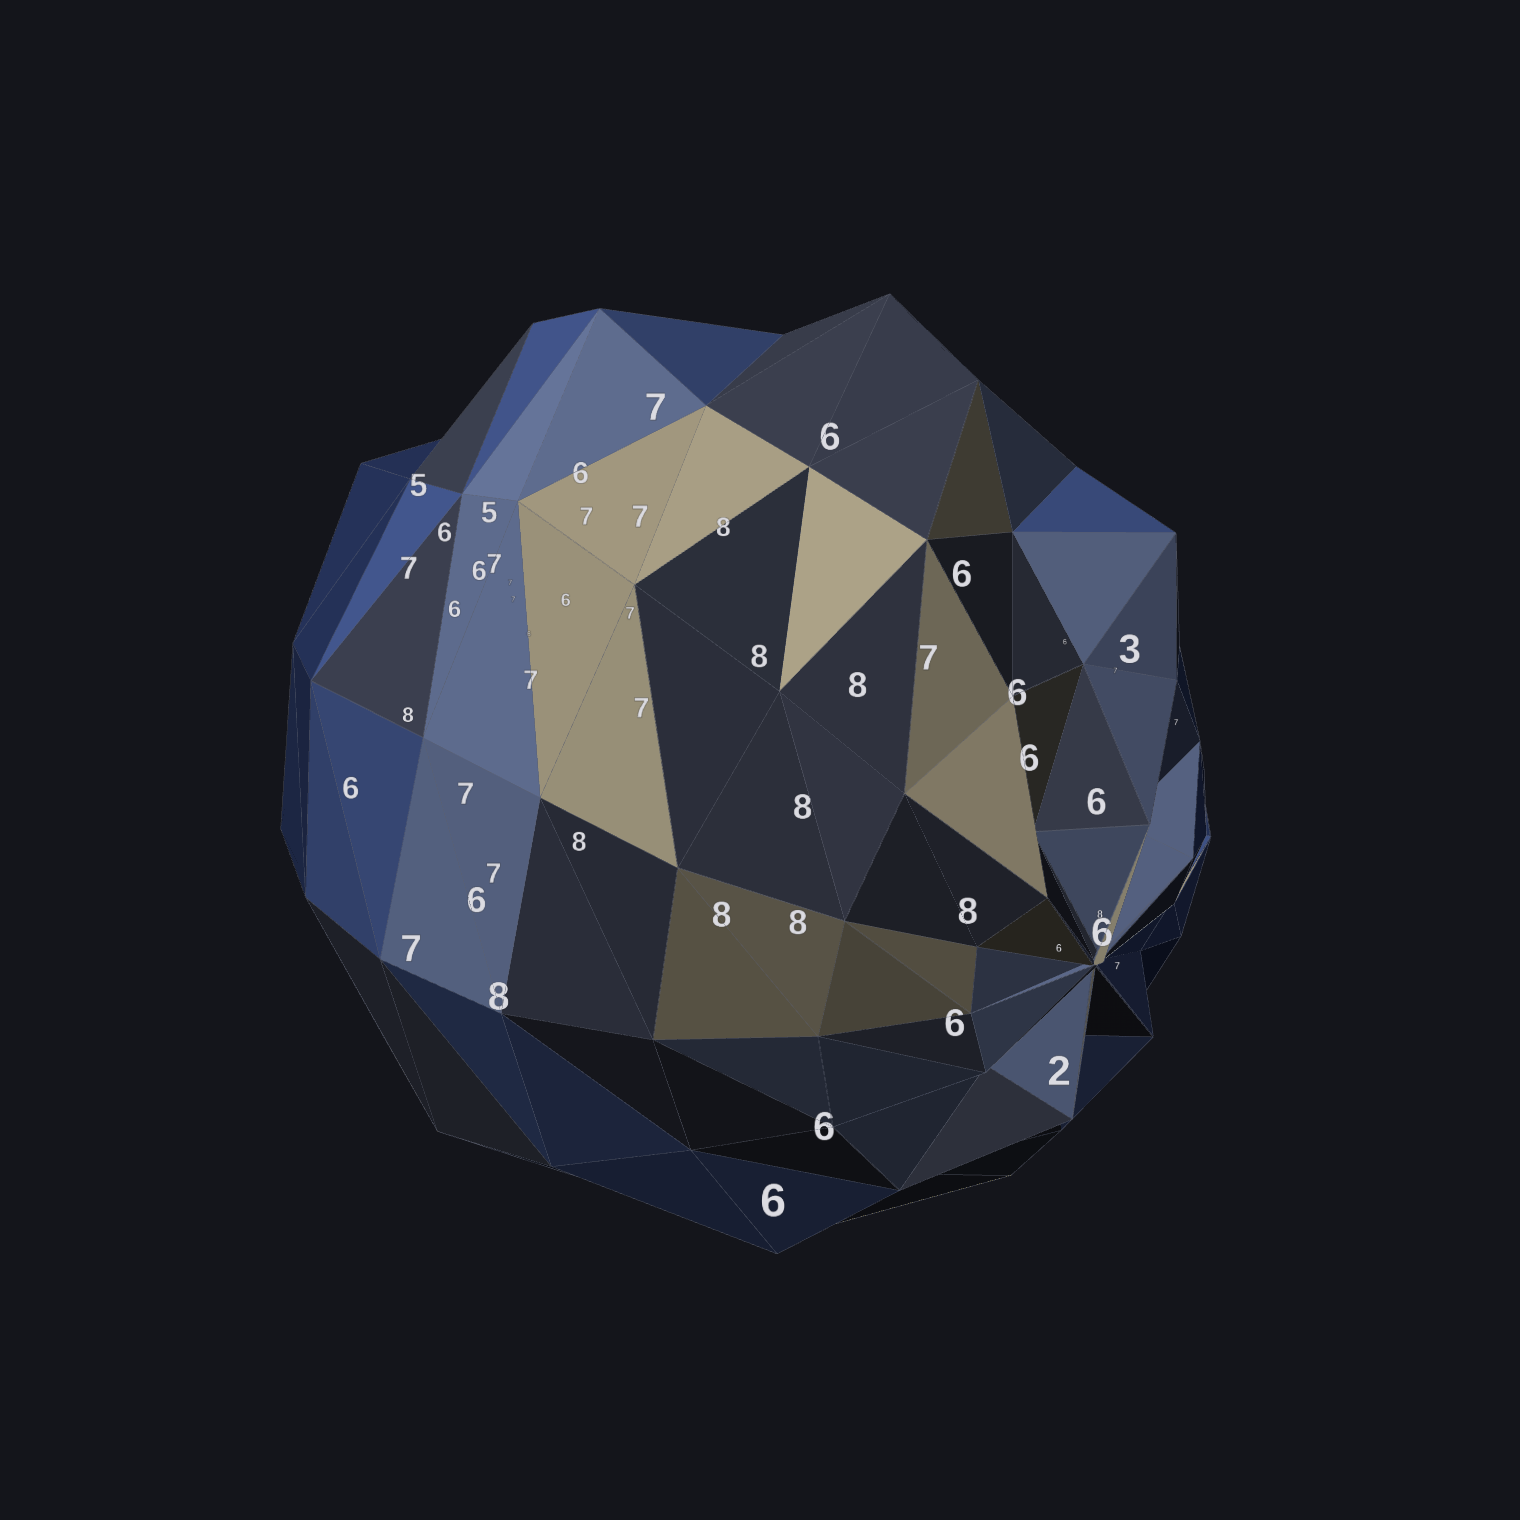
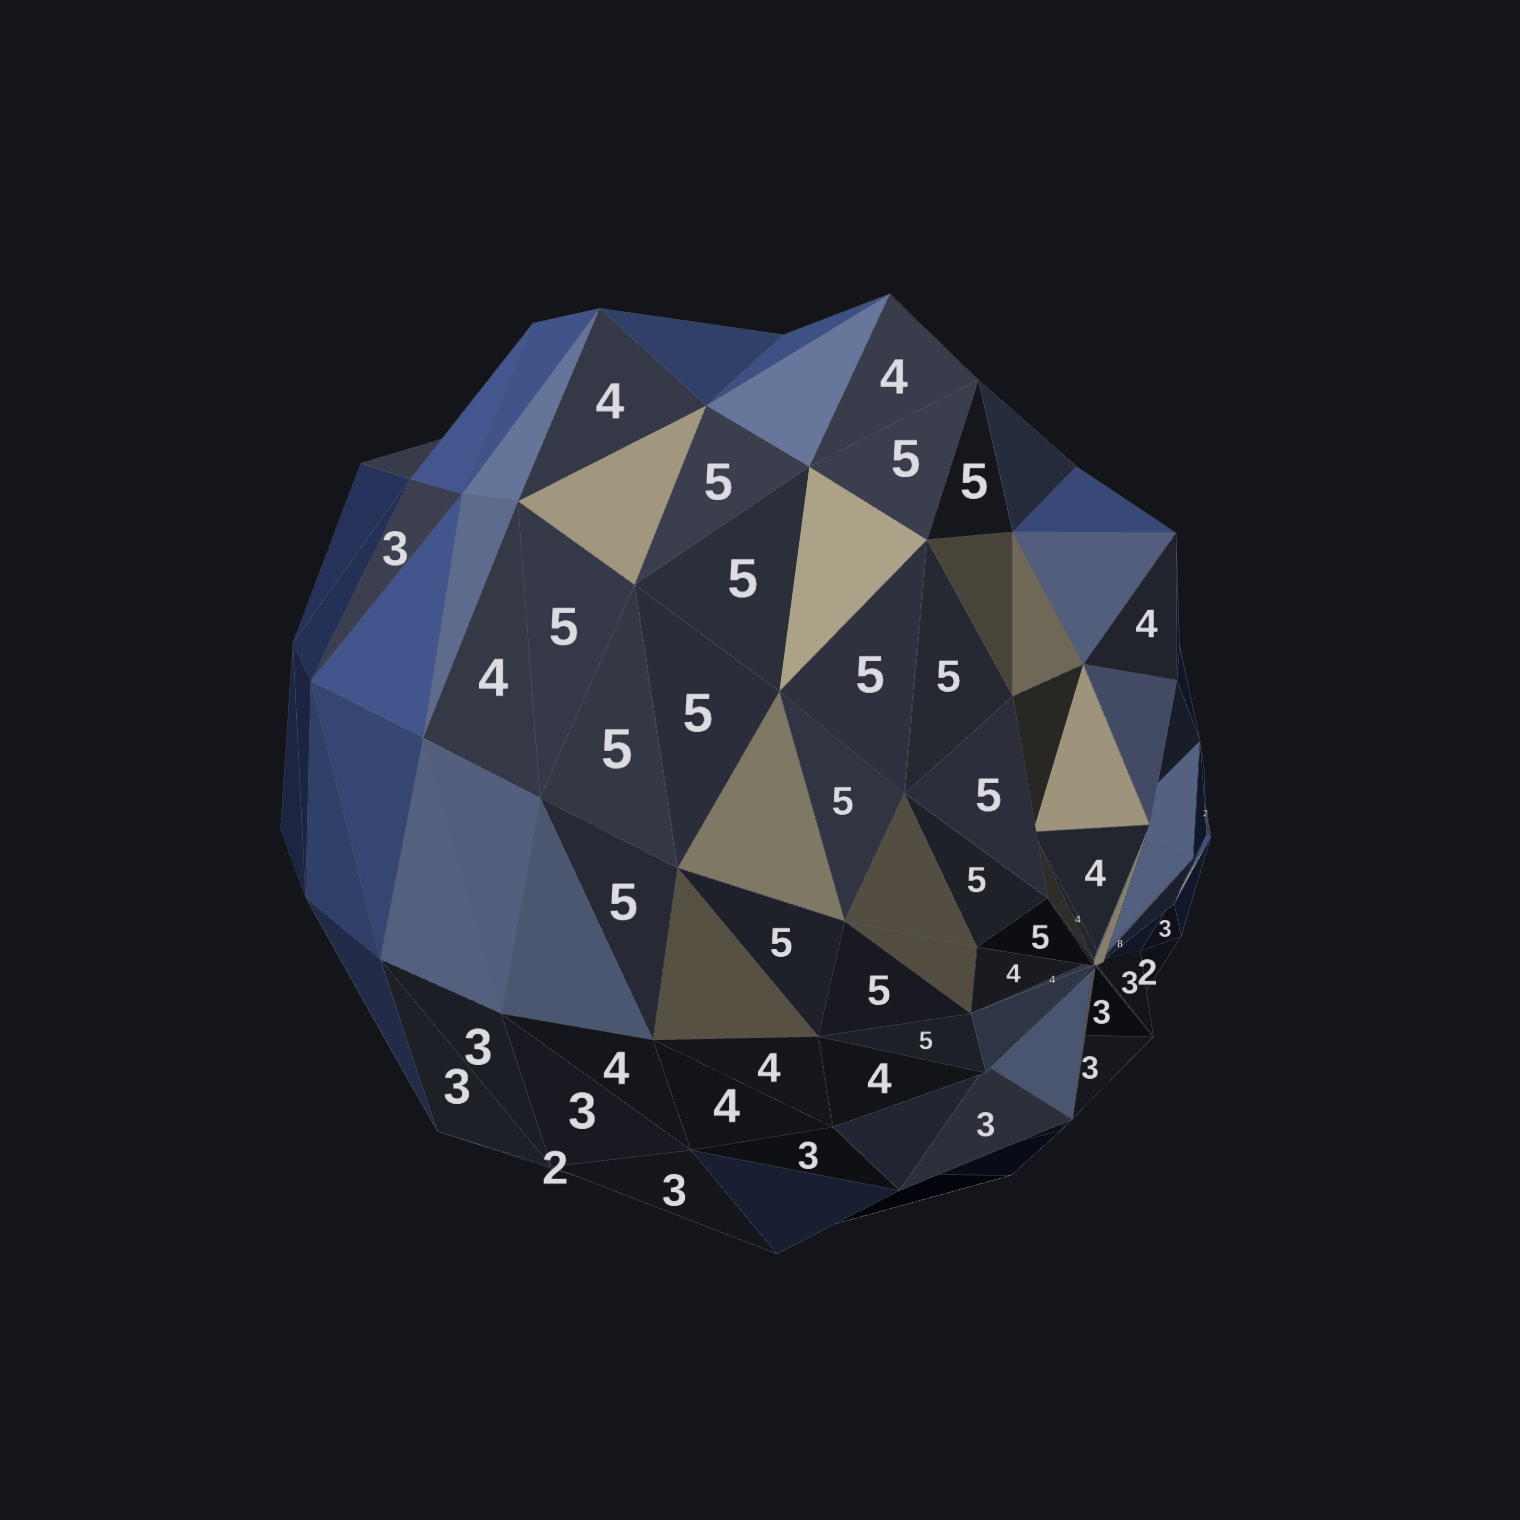
3D CBN: show numbers only on truly-visible faces (raycast occlusion)
Disabling the GPU depth test (previous commit) fixed the gem's missing
numbers but let numbers from far-side faces bleed through the front when
rotating. The GPU depth test itself proved unreliable for these sprites on
the tested GL stack (front-facing numbers vanished regardless of offset or
camera-ward bias), so relying on it is not portable.

Replace it with CPU-side visibility: for each uncolored face, cast a ray
from the camera to the face centroid and hide its number if the mesh blocks
the line of sight (a nearer face is in front). This exactly matches "only
show numbers on visible faces" and behaves identically on every device.

- Sprites keep depthTest:false and per-face sizing; positioned at the face
  centroid (no normal offset, which was unreliable where winding flipped).
- recomputeVis() runs only when the view changes (rotate/zoom) or a face is
  painted, throttled to ~16 Hz, so it's cheap.
- Verified on the gem (two angles), torus (through-hole faces show, far rim
  hidden), geodesic and the Platonic solids; painting a face hides its
  number; no console errors.

Rebuilt app, re-captured thumbnails, regenerated ZIP/PDF/previews.

Claude-Session: https://claude.ai/code/session_01BoUmYt3wo9kd8sjZ3aRKaR

Changed region(s): [[0.1855, 0.1855, 0.773, 0.8039], [0.6803, 0.6803, 0.7112, 0.7112], [0.4947, 0.773, 0.5257, 0.8039]]

diff --git a/ipad_3d_cbn/MathRelaxing_3D_CBN.html b/ipad_3d_cbn/MathRelaxing_3D_CBN.html
@@ -51,7 +51,7 @@ function numTexture(n){const s=128,cv=document.createElement('canvas');cv.width=
   x.fillText(n,s/2,s/2+4);const t=new THREE.CanvasTexture(cv);t.anisotropy=4;return t;}
 const numTex=[];for(let i=0;i<NS;i++)numTex.push(numTexture(i+1));
 
-let group,mesh,geo,col,sprites,normVecs,colored,history,cur=-1,selected=null;
+let group,mesh,geo,col,sprites,centV,colored,history,cur=-1,selected=null,visDirty=true;
 
 function loadFigure(idx){
   if(group){scene.remove(group);geo.dispose();
@@ -70,19 +70,20 @@ function loadFigure(idx){
   // WIREFRAME (every triangle edge) so all colour-by-number regions are outlined
   group.add(new THREE.LineSegments(new THREE.WireframeGeometry(geo),
      new THREE.LineBasicMaterial({color:0x5a5e6c,transparent:true,opacity:0.55})));
-  sprites=[];normVecs=[];
+  sprites=[];centV=[];
   for(let f=0;f<nF;f++){
-    // depthTest:false — a bumpy/non-convex figure (the gem) otherwise occludes
-    // its own numbers; back-face culling (wn.z>0.15 in animate) already hides
-    // numbers on faces pointing away, so only front numbers ever draw.
+    // depthTest:false — the GPU depth test is unreliable for these sprites on
+    // some mobile GL stacks (numbers vanish or bleed through), so we decide
+    // visibility ourselves by raycasting camera->face each view change (recomputeVis).
     const sp=new THREE.Sprite(new THREE.SpriteMaterial({map:numTex[M.faceColor[f]],depthTest:false,transparent:true}));
-    const c=M.centroids[f],n=M.normals[f];
+    const c=M.centroids[f];
     // size each number to its own face (inscribed-circle radius) so numbers on
     // small faces stay inside their cell instead of overlapping neighbours.
     const sc=Math.max(0.03,Math.min(0.14,M.faceSize[f]*1.5));
-    sp.position.set(c[0]+n[0]*0.02,c[1]+n[1]*0.02,c[2]+n[2]*0.02);sp.scale.setScalar(sc);
-    group.add(sp);sprites.push(sp);normVecs.push(new THREE.Vector3(n[0],n[1],n[2]));
+    sp.position.set(c[0],c[1],c[2]);sp.scale.setScalar(sc);
+    group.add(sp);sprites.push(sp);centV.push(new THREE.Vector3(c[0],c[1],c[2]));
   }
+  visDirty=true;
   scene.add(group);
   colored=new Array(nF).fill(-1);history=[];
   try{const s=JSON.parse(localStorage.getItem(key())||'[]');s.forEach((ci,f)=>{if(ci>=0)paint(f,ci);});}catch(e){}
@@ -91,9 +92,9 @@ function loadFigure(idx){
 function key(){return 'cbn3d_'+MESHES[cur].name;}
 function paint(f,ci){const c=new THREE.Color(PAL[ci]);
   for(let k=0;k<3;k++){col[f*9+k*3]=c.r;col[f*9+k*3+1]=c.g;col[f*9+k*3+2]=c.b;}
-  geo.attributes.color.needsUpdate=true;colored[f]=ci;}
+  geo.attributes.color.needsUpdate=true;colored[f]=ci;visDirty=true;}
 function unpaint(f){for(let k=0;k<3;k++){col[f*9+k*3]=UNCOLORED.r;col[f*9+k*3+1]=UNCOLORED.g;col[f*9+k*3+2]=UNCOLORED.b;}
-  geo.attributes.color.needsUpdate=true;colored[f]=-1;}
+  geo.attributes.color.needsUpdate=true;colored[f]=-1;visDirty=true;}
 function save(){try{localStorage.setItem(key(),JSON.stringify(colored));}catch(e){}}
 function updateProg(){const n=colored.filter(x=>x>=0).length;
   document.getElementById('prog').textContent=MESHES[cur].name+' — '+Math.round(100*n/colored.length)+'%';}
@@ -136,12 +137,32 @@ addEventListener('touchend',e=>{if(e.changedTouches.length)up(e.changedTouches[0
 addEventListener('resize',()=>{camera.aspect=innerWidth/innerHeight;camera.updateProjectionMatrix();renderer.setSize(innerWidth,innerHeight);});
 renderer.setSize(innerWidth,innerHeight);
 
-const q=new THREE.Quaternion(),wn=new THREE.Vector3();
+// Show a number only when its face is actually visible: cast a ray from the
+// camera to the face centroid and hide the number if the mesh blocks the line
+// of sight (a nearer face is in front). This is done on the CPU so it behaves
+// the same on every device, regardless of the GPU depth test. Recomputed only
+// when the view changes (rotate/zoom) or a face is painted, and throttled.
+const q=new THREE.Quaternion(),occRay=new THREE.Raycaster(),
+  _cam=new THREE.Vector3(),_cw=new THREE.Vector3(),_dir=new THREE.Vector3();
+let lastVisKey='',lastVisT=0;
+function recomputeVis(){
+  group.updateMatrixWorld(true);group.getWorldQuaternion(q);
+  _cam.set(0,0,camDist);
+  for(let f=0;f<sprites.length;f++){
+    if(colored[f]>=0){sprites[f].visible=false;continue;}
+    _cw.copy(centV[f]).applyQuaternion(q);
+    const dc=_cam.distanceTo(_cw);
+    _dir.copy(_cw).sub(_cam).multiplyScalar(1/dc);
+    occRay.set(_cam,_dir);occRay.far=dc+1;
+    const hit=occRay.intersectObject(mesh,false);
+    sprites[f].visible = !(hit.length && hit[0].distance < dc-0.02);  // blocked -> hide
+  }
+}
 function animate(){requestAnimationFrame(animate);
   camera.position.set(0,0,camDist);camera.lookAt(0,0,0);
-  group.getWorldQuaternion(q);
-  for(let f=0;f<sprites.length;f++){wn.copy(normVecs[f]).applyQuaternion(q);
-    sprites[f].visible = colored[f]<0 && wn.z>0.15;}   // hide coloured & back-facing numbers
+  const vk=group.rotation.x.toFixed(3)+','+group.rotation.y.toFixed(3)+','+camDist.toFixed(2);
+  const now=performance.now();
+  if((visDirty||vk!==lastVisKey)&&now-lastVisT>60){lastVisKey=vk;lastVisT=now;visDirty=false;recomputeVis();}
   if(flashT>0){flashT--;scene.background.setHex(flashT%2?0x3a1414:0x14151b);}else scene.background.setHex(0x14151b);
   renderer.render(scene,camera);}
 loadFigure(0);   // start on the complex Geodesic Sphere

diff --git a/ipad_3d_cbn/build_3d_cbn.py b/ipad_3d_cbn/build_3d_cbn.py
@@ -126,7 +126,7 @@ function numTexture(n){const s=128,cv=document.createElement('canvas');cv.width=
   x.fillText(n,s/2,s/2+4);const t=new THREE.CanvasTexture(cv);t.anisotropy=4;return t;}
 const numTex=[];for(let i=0;i<NS;i++)numTex.push(numTexture(i+1));
 
-let group,mesh,geo,col,sprites,normVecs,colored,history,cur=-1,selected=null;
+let group,mesh,geo,col,sprites,centV,colored,history,cur=-1,selected=null,visDirty=true;
 
 function loadFigure(idx){
   if(group){scene.remove(group);geo.dispose();
@@ -145,19 +145,20 @@ function loadFigure(idx){
   // WIREFRAME (every triangle edge) so all colour-by-number regions are outlined
   group.add(new THREE.LineSegments(new THREE.WireframeGeometry(geo),
      new THREE.LineBasicMaterial({color:0x5a5e6c,transparent:true,opacity:0.55})));
-  sprites=[];normVecs=[];
+  sprites=[];centV=[];
   for(let f=0;f<nF;f++){
-    // depthTest:false — a bumpy/non-convex figure (the gem) otherwise occludes
-    // its own numbers; back-face culling (wn.z>0.15 in animate) already hides
-    // numbers on faces pointing away, so only front numbers ever draw.
+    // depthTest:false — the GPU depth test is unreliable for these sprites on
+    // some mobile GL stacks (numbers vanish or bleed through), so we decide
+    // visibility ourselves by raycasting camera->face each view change (recomputeVis).
     const sp=new THREE.Sprite(new THREE.SpriteMaterial({map:numTex[M.faceColor[f]],depthTest:false,transparent:true}));
-    const c=M.centroids[f],n=M.normals[f];
+    const c=M.centroids[f];
     // size each number to its own face (inscribed-circle radius) so numbers on
     // small faces stay inside their cell instead of overlapping neighbours.
     const sc=Math.max(0.03,Math.min(0.14,M.faceSize[f]*1.5));
-    sp.position.set(c[0]+n[0]*0.02,c[1]+n[1]*0.02,c[2]+n[2]*0.02);sp.scale.setScalar(sc);
-    group.add(sp);sprites.push(sp);normVecs.push(new THREE.Vector3(n[0],n[1],n[2]));
+    sp.position.set(c[0],c[1],c[2]);sp.scale.setScalar(sc);
+    group.add(sp);sprites.push(sp);centV.push(new THREE.Vector3(c[0],c[1],c[2]));
   }
+  visDirty=true;
   scene.add(group);
   colored=new Array(nF).fill(-1);history=[];
   try{const s=JSON.parse(localStorage.getItem(key())||'[]');s.forEach((ci,f)=>{if(ci>=0)paint(f,ci);});}catch(e){}
@@ -166,9 +167,9 @@ function loadFigure(idx){
 function key(){return 'cbn3d_'+MESHES[cur].name;}
 function paint(f,ci){const c=new THREE.Color(PAL[ci]);
   for(let k=0;k<3;k++){col[f*9+k*3]=c.r;col[f*9+k*3+1]=c.g;col[f*9+k*3+2]=c.b;}
-  geo.attributes.color.needsUpdate=true;colored[f]=ci;}
+  geo.attributes.color.needsUpdate=true;colored[f]=ci;visDirty=true;}
 function unpaint(f){for(let k=0;k<3;k++){col[f*9+k*3]=UNCOLORED.r;col[f*9+k*3+1]=UNCOLORED.g;col[f*9+k*3+2]=UNCOLORED.b;}
-  geo.attributes.color.needsUpdate=true;colored[f]=-1;}
+  geo.attributes.color.needsUpdate=true;colored[f]=-1;visDirty=true;}
 function save(){try{localStorage.setItem(key(),JSON.stringify(colored));}catch(e){}}
 function updateProg(){const n=colored.filter(x=>x>=0).length;
   document.getElementById('prog').textContent=MESHES[cur].name+' — '+Math.round(100*n/colored.length)+'%';}
@@ -211,12 +212,32 @@ addEventListener('touchend',e=>{if(e.changedTouches.length)up(e.changedTouches[0
 addEventListener('resize',()=>{camera.aspect=innerWidth/innerHeight;camera.updateProjectionMatrix();renderer.setSize(innerWidth,innerHeight);});
 renderer.setSize(innerWidth,innerHeight);
 
-const q=new THREE.Quaternion(),wn=new THREE.Vector3();
+// Show a number only when its face is actually visible: cast a ray from the
+// camera to the face centroid and hide the number if the mesh blocks the line
+// of sight (a nearer face is in front). This is done on the CPU so it behaves
+// the same on every device, regardless of the GPU depth test. Recomputed only
+// when the view changes (rotate/zoom) or a face is painted, and throttled.
+const q=new THREE.Quaternion(),occRay=new THREE.Raycaster(),
+  _cam=new THREE.Vector3(),_cw=new THREE.Vector3(),_dir=new THREE.Vector3();
+let lastVisKey='',lastVisT=0;
+function recomputeVis(){
+  group.updateMatrixWorld(true);group.getWorldQuaternion(q);
+  _cam.set(0,0,camDist);
+  for(let f=0;f<sprites.length;f++){
+    if(colored[f]>=0){sprites[f].visible=false;continue;}
+    _cw.copy(centV[f]).applyQuaternion(q);
+    const dc=_cam.distanceTo(_cw);
+    _dir.copy(_cw).sub(_cam).multiplyScalar(1/dc);
+    occRay.set(_cam,_dir);occRay.far=dc+1;
+    const hit=occRay.intersectObject(mesh,false);
+    sprites[f].visible = !(hit.length && hit[0].distance < dc-0.02);  // blocked -> hide
+  }
+}
 function animate(){requestAnimationFrame(animate);
   camera.position.set(0,0,camDist);camera.lookAt(0,0,0);
-  group.getWorldQuaternion(q);
-  for(let f=0;f<sprites.length;f++){wn.copy(normVecs[f]).applyQuaternion(q);
-    sprites[f].visible = colored[f]<0 && wn.z>0.15;}   // hide coloured & back-facing numbers
+  const vk=group.rotation.x.toFixed(3)+','+group.rotation.y.toFixed(3)+','+camDist.toFixed(2);
+  const now=performance.now();
+  if((visDirty||vk!==lastVisKey)&&now-lastVisT>60){lastVisKey=vk;lastVisT=now;visDirty=false;recomputeVis();}
   if(flashT>0){flashT--;scene.background.setHex(flashT%2?0x3a1414:0x14151b);}else scene.background.setHex(0x14151b);
   renderer.render(scene,camera);}
 loadFigure(0);   // start on the complex Geodesic Sphere
